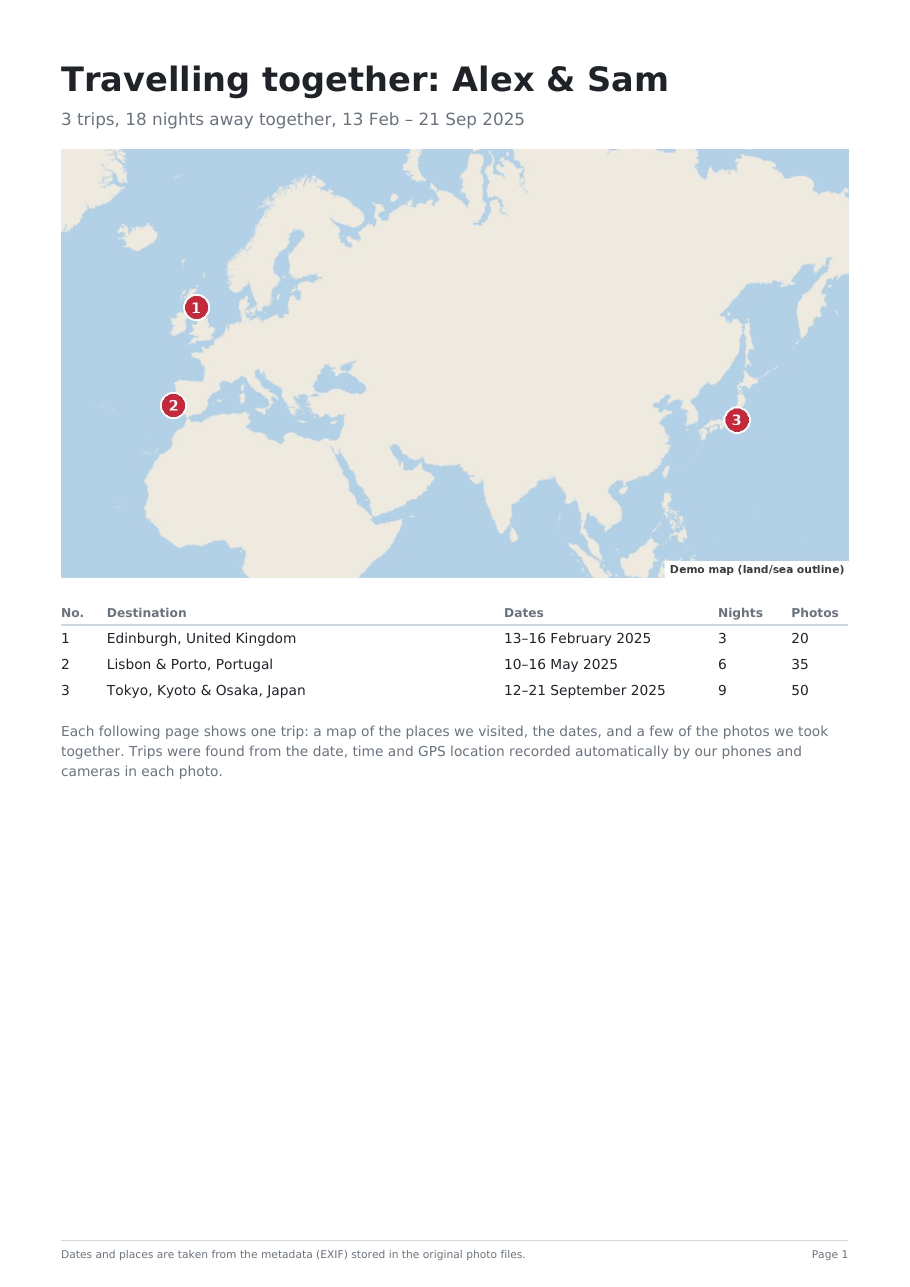
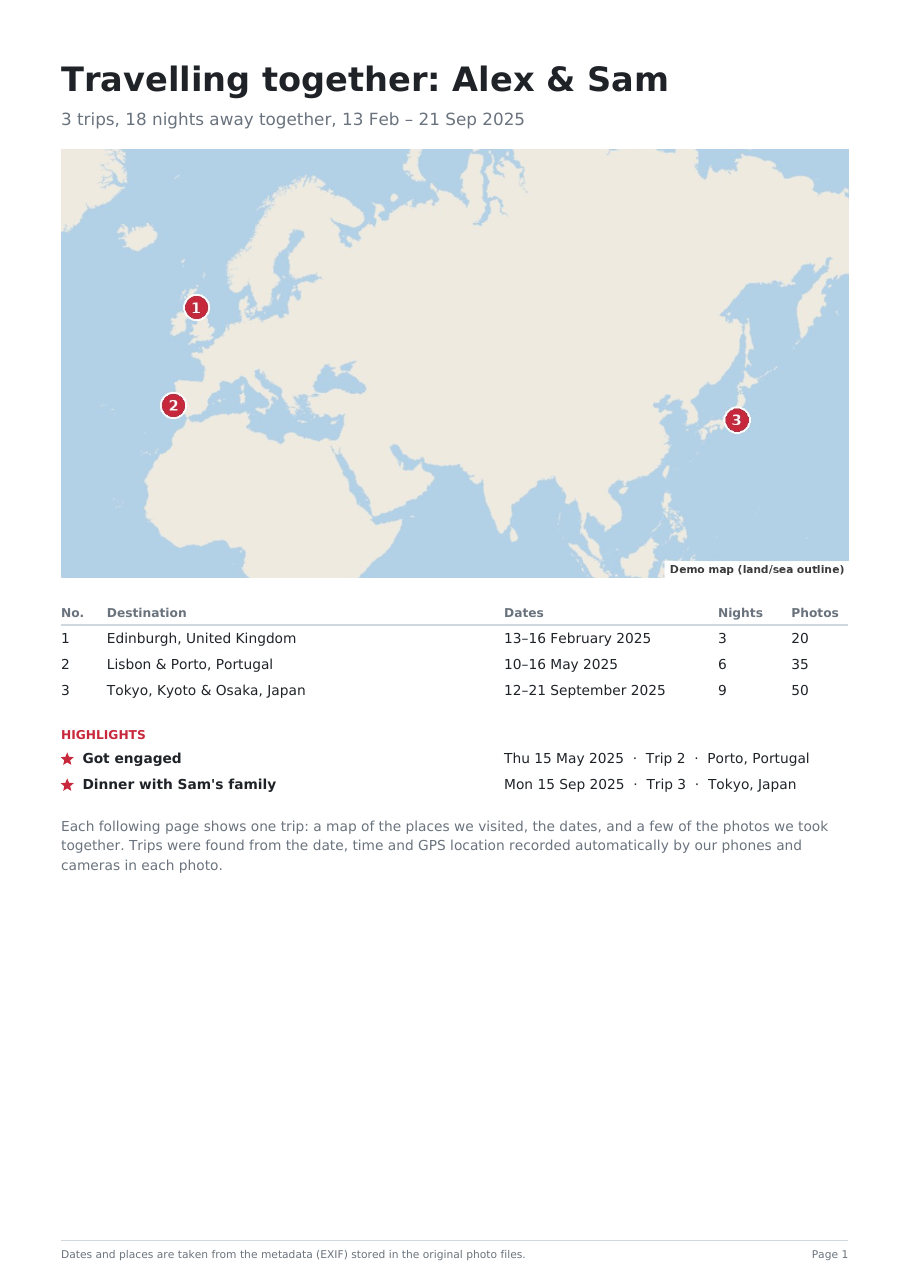
Let photos be marked as trip highlights, shown prominently in the PDF
A chosen photo can be given a highlight label (e.g. "Got engaged"). In
the PDF it gets a coloured frame and label, and highlights are listed at
the top of the trip page and on the cover.

Claude-Session: https://claude.ai/code/session_017j1bBx4xez1HzxAAKX5EZu

Changed region(s): [[0.0615, 0.5594, 0.8923, 0.6838], [0.3692, 0.6216, 0.5538, 0.6838], [0.5846, 0.6527, 0.6154, 0.6838]]

diff --git a/photostory/static/index.html b/photostory/static/index.html
@@ -37,6 +37,10 @@
   .ph { position:relative; width:150px; height:112px; border-radius:6px; overflow:hidden; cursor:pointer; background:#e6e9ec; border: 3px solid transparent; }
   .ph img { width:100%; height:100%; object-fit:cover; display:block; }
   .ph.sel { border-color: var(--accent); }
+  .ph.event { border-color: #d4a017; box-shadow: 0 0 0 2px #f5d77a; }
+  .ph.event .num { background: #d4a017; }
+  .item { width: 150px; }
+  .item .event-in { margin-top: 4px; padding: 4px 6px; font-size: 12px; }
   .ph .tag { position:absolute; left:4px; bottom:4px; background:rgba(0,0,0,.65); color:#fff; font-size:11px; padding:1px 6px; border-radius:4px; }
   .ph .tag.both { background: var(--ok); }
   .ph .num { position:absolute; right:4px; top:4px; background:var(--accent); color:#fff; font-size:12px; font-weight:700; width:22px; height:22px; border-radius:50%; text-align:center; line-height:22px; }
@@ -104,7 +108,7 @@
       <h2>3. Check the photos</h2>
       <label>Document title</label>
       <input type="text" id="doc_title" placeholder="Travelling together: Alex & Sam">
-      <p class="meta">Click a photo below a trip to add it, or click a chosen photo to remove it. Green tags mark photos where both of you were recognised.</p>
+      <p class="meta">Click a photo below a trip to add it, or click a chosen photo to remove it. Green tags mark photos where both of you were recognised. To make a special moment stand out, such as getting engaged or dinner with family, type it under that photo as a highlight. Highlights get a coloured frame and label in the PDF, and are listed at the top of the trip page and on the cover.</p>
     </div>
     <div id="trips"></div>
     <div class="sticky">
@@ -253,13 +257,27 @@ function tripCard(t, i) {
     const byPath = Object.fromEntries(t.photos.map(p => [p.path, p]));
     const chosen = el.querySelector(".chosen");
     chosen.innerHTML = "";
+    t.events = t.events || {};
     t.selected.forEach((path, k) => {
       const ph = byPath[path]; if (!ph) return;
+      const item = document.createElement("div");
+      item.className = "item";
       const d = document.createElement("div");
-      d.className = "ph sel"; d.title = "Click to remove";
-      d.innerHTML = `<img loading="lazy" src="${thumb(path)}"><span class="num">${k + 1}</span>${tag(ph)}`;
-      d.onclick = () => { t.selected.splice(k, 1); save(); render(); };
-      chosen.appendChild(d);
+      d.title = "Click to remove";
+      const paint = () => {
+        const ev = (t.events[path] || "").trim();
+        d.className = "ph sel" + (ev ? " event" : "");
+        d.innerHTML = `<img loading="lazy" src="${thumb(path)}"><span class="num">${ev ? "★" : k + 1}</span>${tag(ph)}`;
+      };
+      paint();
+      d.onclick = () => { t.selected.splice(k, 1); delete t.events[path]; save(); render(); };
+      const input = document.createElement("input");
+      input.type = "text"; input.className = "event-in"; input.maxLength = 80;
+      input.placeholder = "★ Add highlight";
+      input.value = t.events[path] || "";
+      input.oninput = () => { t.events[path] = input.value; paint(); save(); };
+      item.append(d, input);
+      chosen.appendChild(item);
     });
     if (!t.selected.length) chosen.innerHTML = `<p class="meta">No photos chosen. Click photos below to add them.</p>`;
     let rest = t.photos.filter(p => !t.selected.includes(p.path));
@@ -282,7 +300,7 @@ function tripCard(t, i) {
 function edits() {
   return {title: $("doc_title").value, trips: project.trips.map(t => ({id: t.id, title: t.title, notes: t.notes, include: t.include,
     // Until photos are chosen for a trip, its selection belongs to the server.
-    selected: t.analysed ? t.selected : undefined}))};
+    selected: t.analysed ? t.selected : undefined, events: t.analysed ? t.events : undefined}))};
 }
 
 function save() {

diff --git a/photostory/report.py b/photostory/report.py
@@ -20,6 +20,7 @@ INK = HexColor("#1f2328")
 MUTED = HexColor("#6a737d")
 ACCENT = HexColor("#c8283c")
 RULE = HexColor("#d0d7de")
+TINT = HexColor("#fbecee")
 
 _FONT_CANDIDATES = [
     ("/System/Library/Fonts/Supplemental/Arial.ttf", "/System/Library/Fonts/Supplemental/Arial Bold.ttf"),
@@ -57,6 +58,19 @@ def fmt_range(a, b):
 
 def _d(s):
     return datetime.fromisoformat(s)
+
+
+def events(trip):
+    """Highlighted moments in a trip, e.g. "Got engaged": [(photo, label)] in time order."""
+    labels = trip.get("events") or {}
+    photos = [p for p in trip["photos"] if (labels.get(p["path"]) or "").strip()]
+    return [(p, labels[p["path"]].strip()) for p in sorted(photos, key=lambda p: p["time"])]
+
+
+def _place(trip, p):
+    if p.get("stop") is not None and p["stop"] < len(trip["stops"]):
+        return geo.place_label(trip["stops"][p["stop"]].get("place") or {})
+    return ""
 
 
 def _nights(n):
@@ -114,6 +128,18 @@ class Report:
         data = ImageReader(io.BytesIO(jpeg_bytes(img, quality)))
         self.c.drawImage(data, x + (w - dw) / 2, y + (h - dh) / 2, dw, dh)
         return x + (w - dw) / 2, y + (h - dh) / 2, dw, dh
+
+    def star(self, cx, cy, r, color):
+        c = self.c
+        path = c.beginPath()
+        for k in range(10):
+            a = math.pi / 2 + k * math.pi / 5
+            rr = r if k % 2 == 0 else r * 0.45
+            pt = (cx + rr * math.cos(a), cy + rr * math.sin(a))
+            path.moveTo(*pt) if k == 0 else path.lineTo(*pt)
+        path.close()
+        c.setFillColor(color)
+        c.drawPath(path, stroke=0, fill=1)
 
     def footer(self):
         self.page += 1
@@ -188,6 +214,25 @@ class Report:
             self.text(cols[4][0], y, str(t["photo_count"]), 9)
             y -= row_h
 
+        highlights = [(n, ph, label) for n, t in enumerate(self.trips, 1) for ph, label in events(t)]
+        if highlights:
+            y -= 12
+            if y < 90:
+                self.footer()
+                y = PAGE_H - M - 10
+            self.text(M, y, "HIGHLIGHTS", 8, bold=True, color=ACCENT)
+            y -= 16
+            for n, ph, label in highlights:
+                if y < 60:
+                    self.footer()
+                    y = PAGE_H - M - 10
+                self.star(M + 4, y + 3, 4.5, ACCENT)
+                self.text(M + 14, y, self.fit(label, 9, 250, bold=True), 9, bold=True)
+                where = _place(self.trips[n - 1], ph)
+                self.text(M + 290, y, self.fit(f"{fmt_day(_d(ph['time']).date())}  ·  Trip {n}"
+                                              + (f"  ·  {where}" if where else ""), 9, PAGE_W - 2 * M - 290), 9)
+                y -= row_h
+
         y -= 10
         note = p.get("cover_note") or (
             "Each following page shows one trip: a map of the places we visited, the dates, and a few of the "
@@ -210,6 +255,22 @@ class Report:
         self.text(M, y, f"{fmt_day(a.date())} – {fmt_day(b.date())}  ·  {_nights(t['nights'])}  ·  "
                         f"{t['photo_count']} photos taken", 10, color=MUTED)
         y -= 12
+
+        ev = events(t)[:4]
+        if ev:
+            bh = 10 + 15 * len(ev)
+            self.c.setFillColor(TINT)
+            self.c.roundRect(M, y - bh, PAGE_W - 2 * M, bh, 4, stroke=0, fill=1)
+            ly = y - 15
+            for ph, label in ev:
+                self.star(M + 12, ly + 3.5, 5, ACCENT)
+                self.text(M + 24, ly, self.fit(label, 10.5, 260, bold=True), 10.5, bold=True, color=ACCENT)
+                when = _d(ph["time"])
+                where = _place(t, ph)
+                self.text(M + 290, ly, self.fit(f"{fmt_day(when.date())}, {when.strftime('%H:%M')}"
+                                               + (f"  ·  {where}" if where else ""), 9, PAGE_W - 2 * M - 300), 9)
+                ly -= 15
+            y -= bh + 8
 
         # Map, with stops numbered in the order first visited
         stops = t["stops"]
@@ -245,10 +306,11 @@ class Report:
         by_path = {p["path"]: p for p in t["photos"]}
         sel = [by_path[s] for s in t.get("selected", []) if s in by_path]
         if sel:
-            self.photo_grid(sel, stops, M, 44, PAGE_W - 2 * M, y - 44)
+            self.photo_grid(sel, t, M, 44, PAGE_W - 2 * M, y - 44)
         self.footer()
 
-    def photo_grid(self, photos, stops, x, y, w, h):
+    def photo_grid(self, photos, trip, x, y, w, h):
+        labels = dict((p["path"], label) for p, label in events(trip))
         n = len(photos)
         cols = 1 if n == 1 else 2 if n <= 4 else 3
         rows = math.ceil(n / cols)
@@ -269,10 +331,21 @@ class Report:
                 self.c.setStrokeColor(RULE)
                 self.c.rect(ix, iy, iw, ih)
                 self.text(ix + iw / 2, iy + ih / 2, "Photo could not be opened", 8, color=MUTED, align="center")
+            if p["path"] in labels:
+                # Make highlighted moments stand out: a coloured frame and a label on the photo.
+                c = self.c
+                c.setStrokeColor(ACCENT)
+                c.setLineWidth(3)
+                c.rect(ix, iy, iw, ih, stroke=1, fill=0)
+                c.setLineWidth(1)
+                text = self.fit(labels[p["path"]], 10, iw - 36, bold=True)
+                bw = pdfmetrics.stringWidth(text, self.bold, 10) + 30
+                c.setFillColor(ACCENT)
+                c.rect(ix, iy + ih - 20, bw, 20, stroke=0, fill=1)
+                self.star(ix + 11, iy + ih - 9.5, 5, HexColor("#ffffff"))
+                self.text(ix + 21, iy + ih - 13.5, text, 10, bold=True, color=HexColor("#ffffff"))
             when = _d(p["time"])
-            place = ""
-            if p.get("stop") is not None and p["stop"] < len(stops):
-                place = geo.place_label(stops[p["stop"]].get("place") or {})
+            place = _place(trip, p)
             line1 = f"{fmt_day(when.date())}, {when.strftime('%H:%M')}" + (f"  ·  {place}" if place else "")
             self.text(ix, iy - 10, self.fit(line1, 8, max(iw, 120)), 8)
             src = os.path.basename(p["path"]) + (f"  ·  {p['camera']}" if p.get("camera") else "")

diff --git a/photostory/pipeline.py b/photostory/pipeline.py
@@ -74,7 +74,7 @@ def run(settings, out_dir, progress=lambda pct, msg: None):
         for t in found:
             o = prev.get(t["start"])
             if o and o.get("edited"):
-                for k in ("title", "notes", "include", "selected", "edited"):
+                for k in ("title", "notes", "include", "selected", "events", "edited"):
                     if k in o:
                         t[k] = o[k]
 

diff --git a/photostory/app.py b/photostory/app.py
@@ -87,6 +87,8 @@ class App:
                     t[k] = e[k]
             if "selected" in e:
                 t["selected"] = [s for s in e["selected"] if s in paths]
+            if "events" in e:
+                t["events"] = {k: v.strip()[:80] for k, v in e["events"].items() if k in paths and v.strip()}
             t["edited"] = True
         pipeline.save_project(self.out_dir, proj)
         return proj

diff --git a/README.md b/README.md
@@ -23,7 +23,7 @@ These screenshots use made-up demo photos and names. In the real app the maps ar
 
 <img src="docs/screenshots/app-pick.png" width="800" alt="The list of trips found, with tick boxes, dates, nights and places">
 
-**Check each trip and swap photos** (green tags mark photos where both of you were recognised)
+**Check each trip, swap photos and mark highlights** (green tags mark photos where both of you were recognised)
 
 <img src="docs/screenshots/app-review.png" width="800" alt="Reviewing a trip: the chosen photos and other photos to pick from">
 
@@ -77,6 +77,9 @@ To remove it all later, run `conda env remove -n photostory` and delete the fold
    analysed for the trips you tick, so this stays quick even if you scanned years of photos.
 7. Check each trip: rename it, click photos to add or remove them, and add a note if it helps
    (e.g. "Sam's sister's wedding"). You can tick more trips later and choose photos for those too.
+   To make a special moment stand out, such as getting engaged or a dinner with family, type it in the
+   **Add highlight** box under that photo. In the PDF, highlighted photos get a coloured frame and label,
+   and the highlights are listed at the top of the trip page and on the cover page.
 8. Click **Make PDF**. PDFs are saved in the `PhotoStory` folder in your home folder.
 
 Your edits are kept if you run **Find trips** again with a wider date range.
